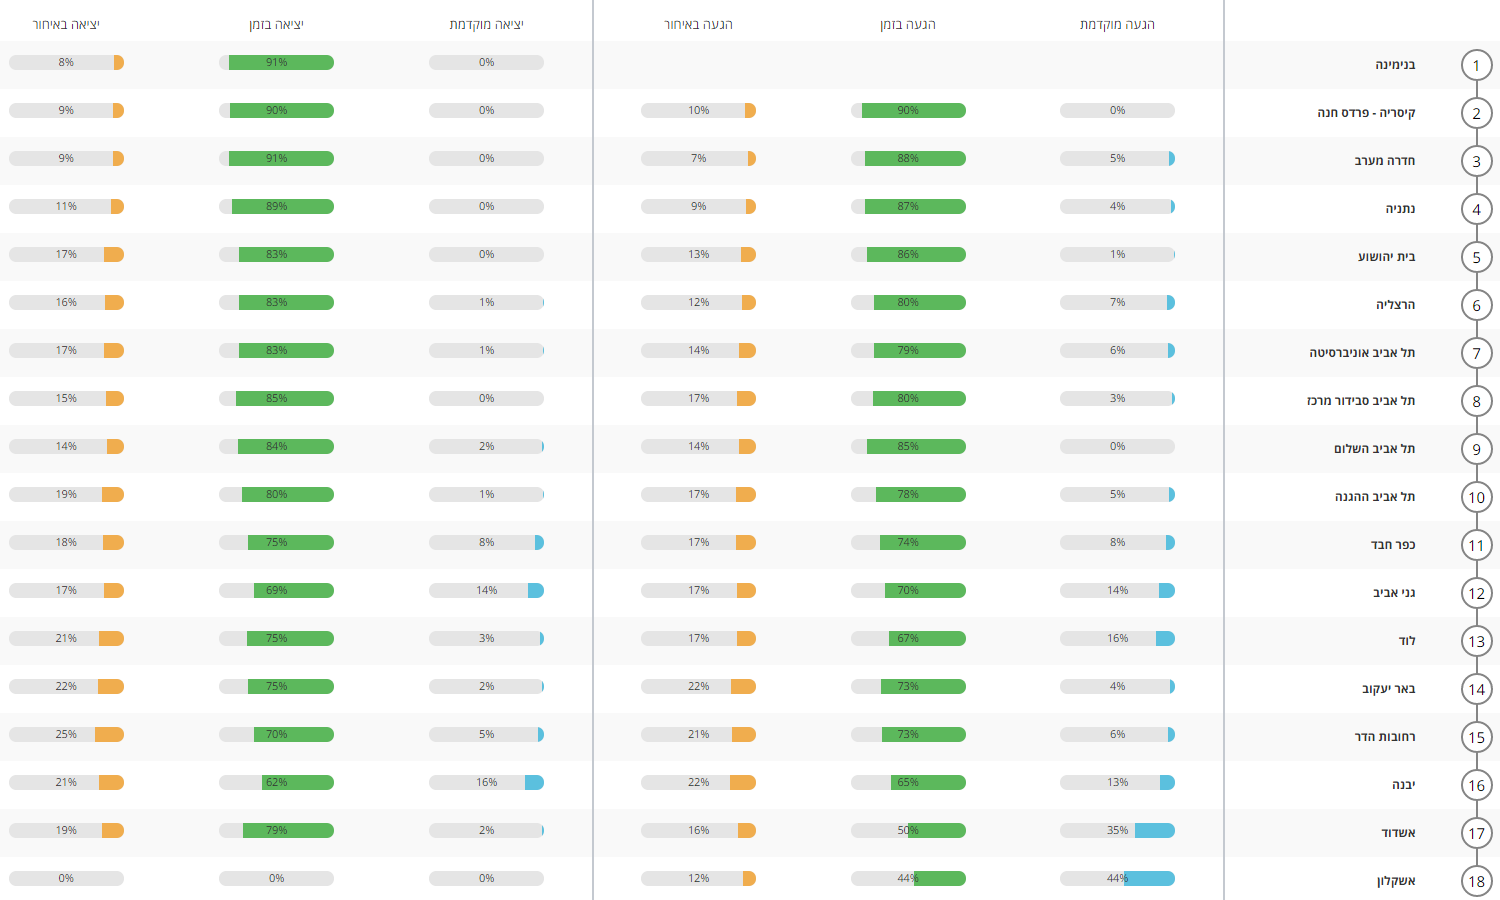
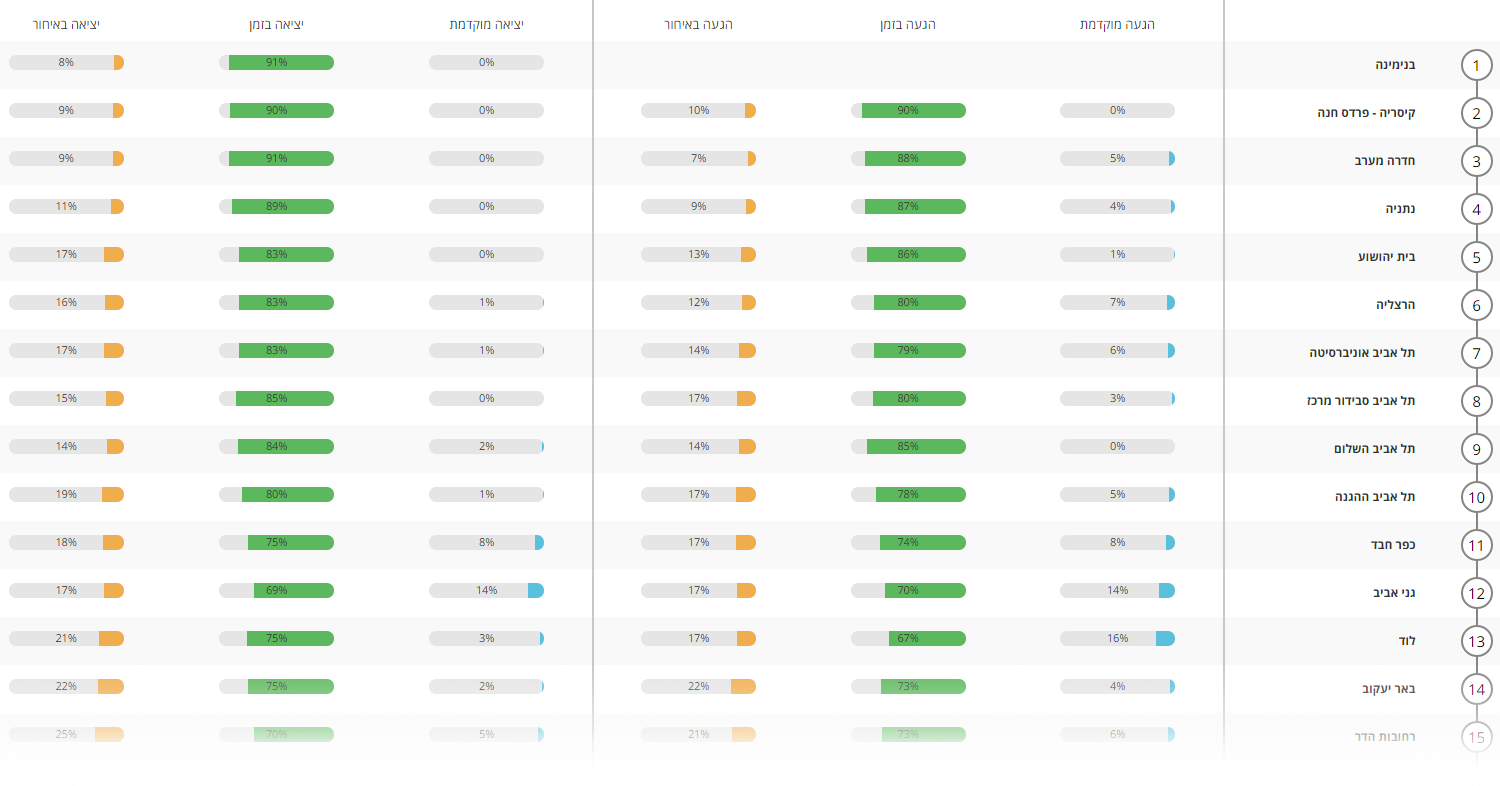
More image size optimizations

diff --git a/simple/train/data/templates/ui/RouteExplorer.html b/simple/train/data/templates/ui/RouteExplorer.html
@@ -8,7 +8,7 @@
         <meta property="og:image" content="http://otrain.org/static/ui/RouteExplorer/img/route-details-sample.png" />
         <meta property="og:image:type" content="image/png" />
         <meta property="og:image:width" content="1500" />
-        <meta property="og:image:height" content="900" />
+        <meta property="og:image:height" content="786" />
 
         <link rel="stylesheet" href="/static/ui/RouteExplorer/css/main.css">
         <link rel="stylesheet" href="/static/ui/RouteExplorer/bower_components/bootstrap-rtl/dist/css/bootstrap-rtl.min.css">
